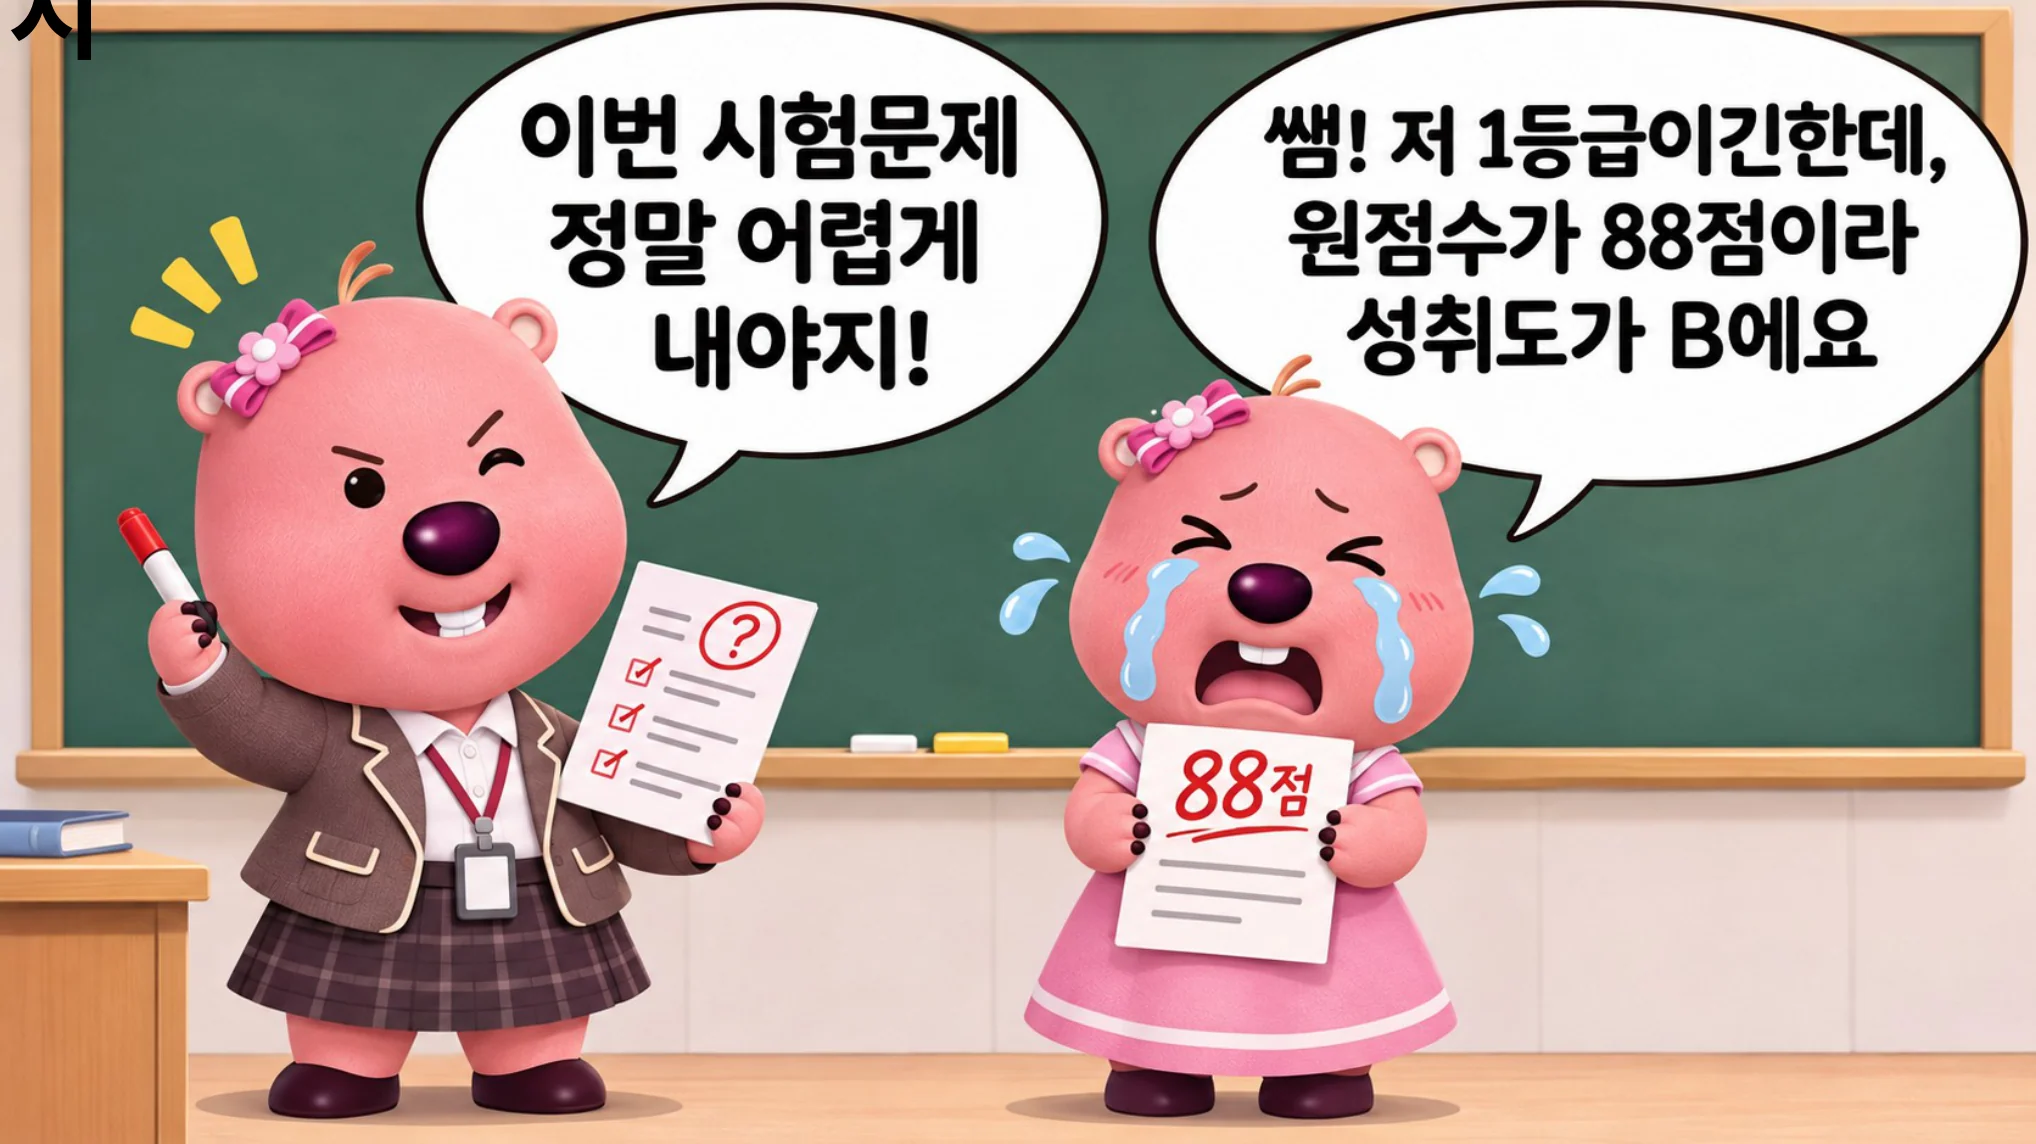
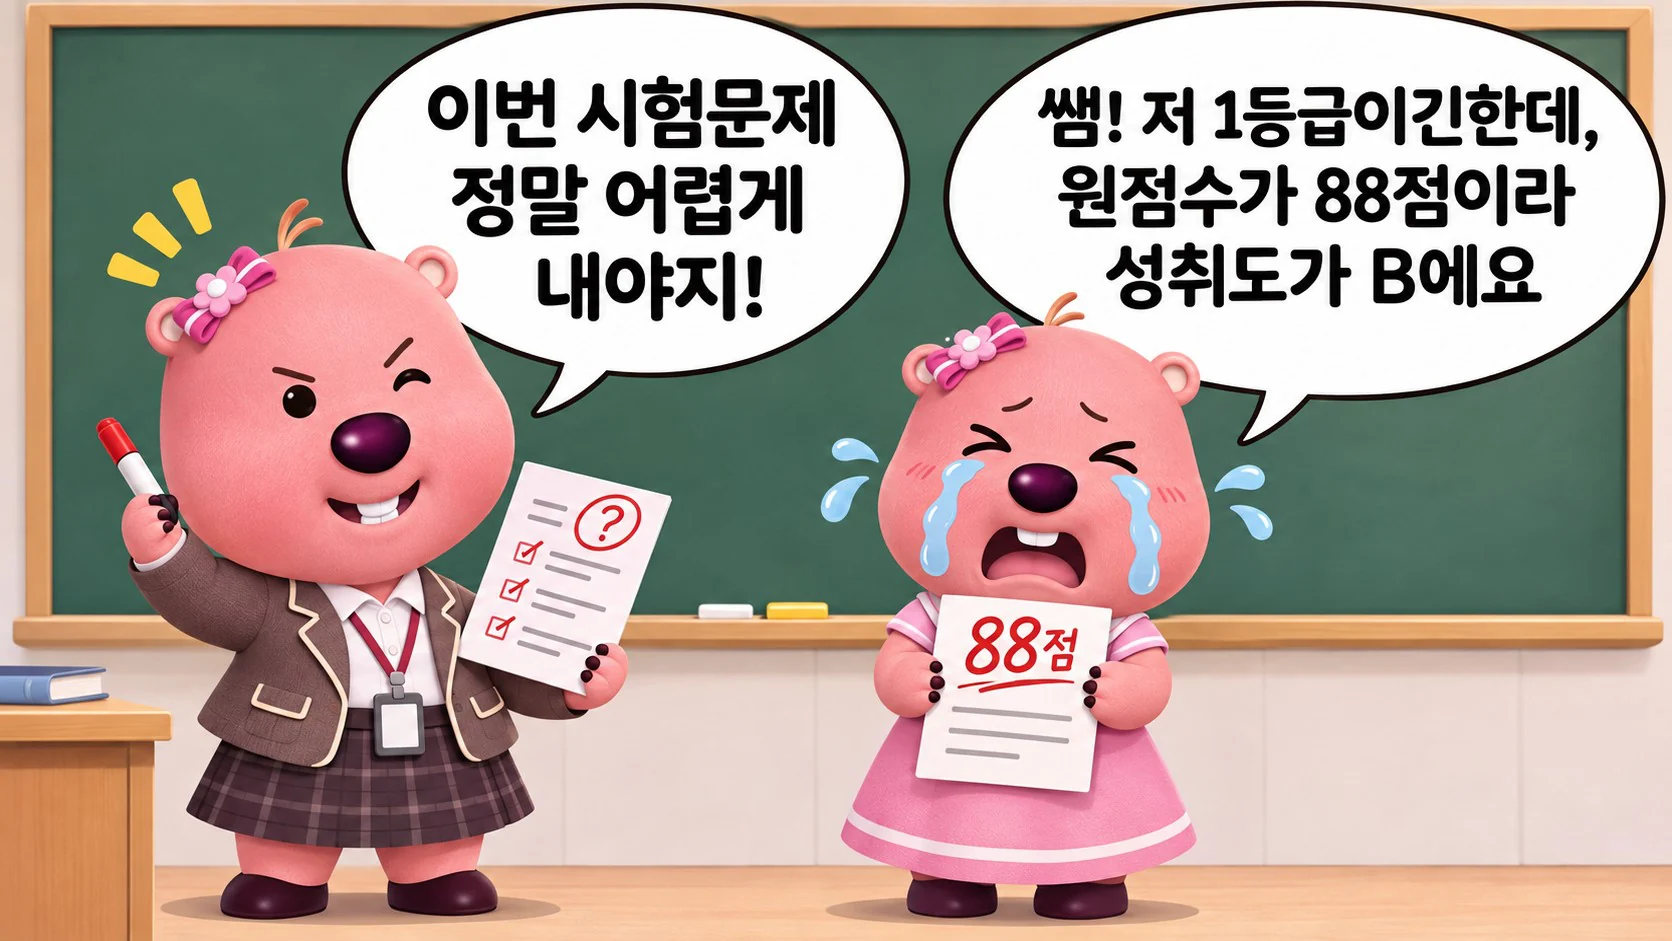
Slide fixes: 17 box on A 0.0, remove 12-14 boxes, fix 21 title overlap

diff --git a/public/slides.js b/public/slides.js
@@ -1,6 +1,7 @@
 // 40장 슬라이드 정의 (1440×810 캔버스 기준 좌표)
 // 애니메이션: class="a up|left|right|zoom|pop|fade|wipe|wipe-d|kb", style="--d:지연(s)"
 (function () {
+  const V = '2'; // 이미지를 바꾸면 이 숫자를 올려 휴대폰 캐시를 갱신
   const SEC = {
     1: '01 성취평가와 추정분할에 대한 이해',
     1.5: '01 성취평가와 추정분할에 대한 오해',
@@ -12,18 +13,18 @@
   const H = (k) => `<div class="hdr">${SEC[k]}</div><div class="bar"></div>`;
   const T = (text, top = 196, d = 0.1) => `<h2 class="ttl a left" style="top:${top}px;--d:${d}s">${text}</h2>`;
   const IMG = (name, x, y, w, h, anim = 'up', d = 0.4, extra = '') =>
-    `<img class="shot a ${anim}" src="/img/${name}.webp" alt="" style="left:${x}px;top:${y}px;width:${w}px;height:${h}px;--d:${d}s;${extra}">`;
-  const FULL = (name, anim = 'kb') => `<img class="full a ${anim}" src="/img/${name}.webp" alt="" style="--d:0s">`;
+    `<img class="shot a ${anim}" src="/img/${name}.webp?v=${V}" alt="" style="left:${x}px;top:${y}px;width:${w}px;height:${h}px;--d:${d}s;${extra}">`;
+  const FULL = (name, anim = 'kb') => `<img class="full a ${anim}" src="/img/${name}.webp?v=${V}" alt="" style="--d:0s">`;
   const RING = (x, y, w, h, d = 1.3, r = 18) =>
     `<div class="pulse" style="left:${x}px;top:${y}px;width:${w}px;height:${h}px;--d:${d}s;border-radius:${r}px"></div>`;
-  const LOGO = (x = 95, y = 95) => `<img class="quiz-logo a down" src="/img/quiz.webp" alt="QUIZ" style="left:${x}px;top:${y}px;--d:0s">`;
+  const LOGO = (x = 95, y = 95) => `<img class="quiz-logo a down" src="/img/quiz.webp?v=${V}" alt="QUIZ" style="left:${x}px;top:${y}px;--d:0s">`;
   const TOTAL = (n) => `<div class="resp-total a fade" style="--d:.6s"><span data-total="${n}">0</span>명 참여</div>`;
   const STMT = (l1, l2, top = 305) =>
     `<p class="big abs a up" style="left:0;right:0;top:${top}px;font-size:54px;line-height:88px;--d:.35s">${l1}<br>${l2}</p>`;
   const OX = (n) => `
     <div class="ox-wrap a up" style="--d:.8s" data-ox="${n}">
-      <button class="ox-card O" data-v="O"><img src="/img/o.webp" alt="O"><span class="ox-badge">0</span></button>
-      <button class="ox-card X" data-v="X"><img src="/img/x.webp" alt="X"><span class="ox-badge">0</span></button>
+      <button class="ox-card O" data-v="O"><img src="/img/o.webp?v=${V}" alt="O"><span class="ox-badge">0</span></button>
+      <button class="ox-card X" data-v="X"><img src="/img/x.webp?v=${V}" alt="X"><span class="ox-badge">0</span></button>
     </div>${TOTAL(n)}`;
   const BUL = (top, l1, l2, d) =>
     `<p class="bul a left" style="top:${top}px;--d:${d}s">- ${l1}<span class="ind">${l2}</span></p>`;
@@ -99,9 +100,9 @@
       <span class="a left" style="display:inline-block;color:var(--blue);--d:.8s">등급위주 →</span>
       <span class="a pop" style="display:inline-block;color:var(--navy);font-size:70px;text-decoration:underline;text-underline-offset:10px;text-decoration-thickness:5px;--d:1.4s">등급+성취도</span></p>`);
   // 12-14 대학별
-  add(`${FULL('p12')}${RING(326, 264, 200, 145, 1.2, 50)}`);
-  add(`${FULL('p13')}${RING(315, 357, 248, 179, 1.2, 50)}`);
-  add(`${FULL('p14')}${RING(912, 333, 162, 196, 1.2, 14)}`);
+  add(`${FULL('p12')}`);
+  add(`${FULL('p13')}`);
+  add(`${FULL('p14')}`);
 
   // 15 성취도별 분포비율 (막대그래프 재구성)
   const vals = [28.2, 26.3, 24.4, 14.9, 6.1];
@@ -120,7 +121,7 @@
     <p class="abs a fade" style="left:600px;top:262px;margin:0;font-size:23px;font-weight:700;--d:.4s">(학교알리미)</p>
     ${IMG('p16', 70, 300, 577, 510, 'wipe-d', 0.5)}`);
   // 17
-  add(`${H(2)}${T('자세히 들여다볼까요?', 183)}${IMG('p17', 70, 307, 1294, 330, 'zoom', 0.4)}${RING(1058, 486, 150, 128, 1.4, 14)}`);
+  add(`${H(2)}${T('자세히 들여다볼까요?', 183)}${IMG('p17', 70, 307, 1294, 330, 'zoom', 0.4)}<div class="pulse stay" style="left:612px;top:486px;width:150px;height:128px;--d:1.2s;border-radius:14px"></div>`);
   // 18
   add(`${H(2)}<p class="big abs a zoom" style="left:0;right:0;top:380px;font-size:60px;--d:.3s">성취도가 이렇게 중요해졌습니다.</p>`);
   // 19 분할점수란?
@@ -130,8 +131,8 @@
   // 20
   add(`${H(3)}${T('고정분할점수 vs. 추정분할점수')}${IMG('p20a', 45, 297, 667, 444, 'left', 0.4)}${IMG('p20b', 712, 297, 665, 444, 'right', 1.0)}`);
   // 21
-  add(`${H(2)}${IMG('p21', 229, 180, 1018, 572, 'zoom', 0.3)}
-    <p class="abs a left" style="left:50px;top:152px;margin:0;font-size:48px;font-weight:800;--d:.1s">고정분할시</p>`);
+  add(`${H(2)}${IMG('p21', 229, 215, 1018, 572, 'zoom', 0.3)}
+    <p class="abs a left" style="left:50px;top:142px;margin:0;font-size:48px;font-weight:800;--d:.1s">고정분할시</p>`);
 
   // 22 OX
   add(`${LOGO()}${STMT('수행평가는 고정분할로,', '정기시험은 추정분할로 할 수 있다.')}${OX(22)}`,

diff --git a/public/styles.css b/public/styles.css
@@ -85,6 +85,16 @@ input, textarea { font-family: inherit; }
   80% { opacity: 1; transform: scale(1); }
   100% { opacity: 0; transform: scale(1); }
 }
+/* 계속 남는 강조 박스: 깜빡인 뒤 그대로 유지 */
+.slide.play .pulse.stay { animation: aPulseStay 1.6s ease-out var(--d, 1.2s) forwards; }
+@keyframes aPulseStay {
+  0% { opacity: 0; transform: scale(1.25); }
+  30% { opacity: 1; transform: scale(1); }
+  45% { opacity: .35; }
+  60% { opacity: 1; }
+  75% { opacity: .35; }
+  100% { opacity: 1; transform: scale(1); }
+}
 /* 형광펜 밑줄 */
 .mark { background: linear-gradient(transparent 62%, rgba(255, 214, 79, .65) 62%) no-repeat; background-size: 0 100%; }
 .slide.play .mark { animation: aMark .9s ease-out var(--d, 1s) forwards; }
